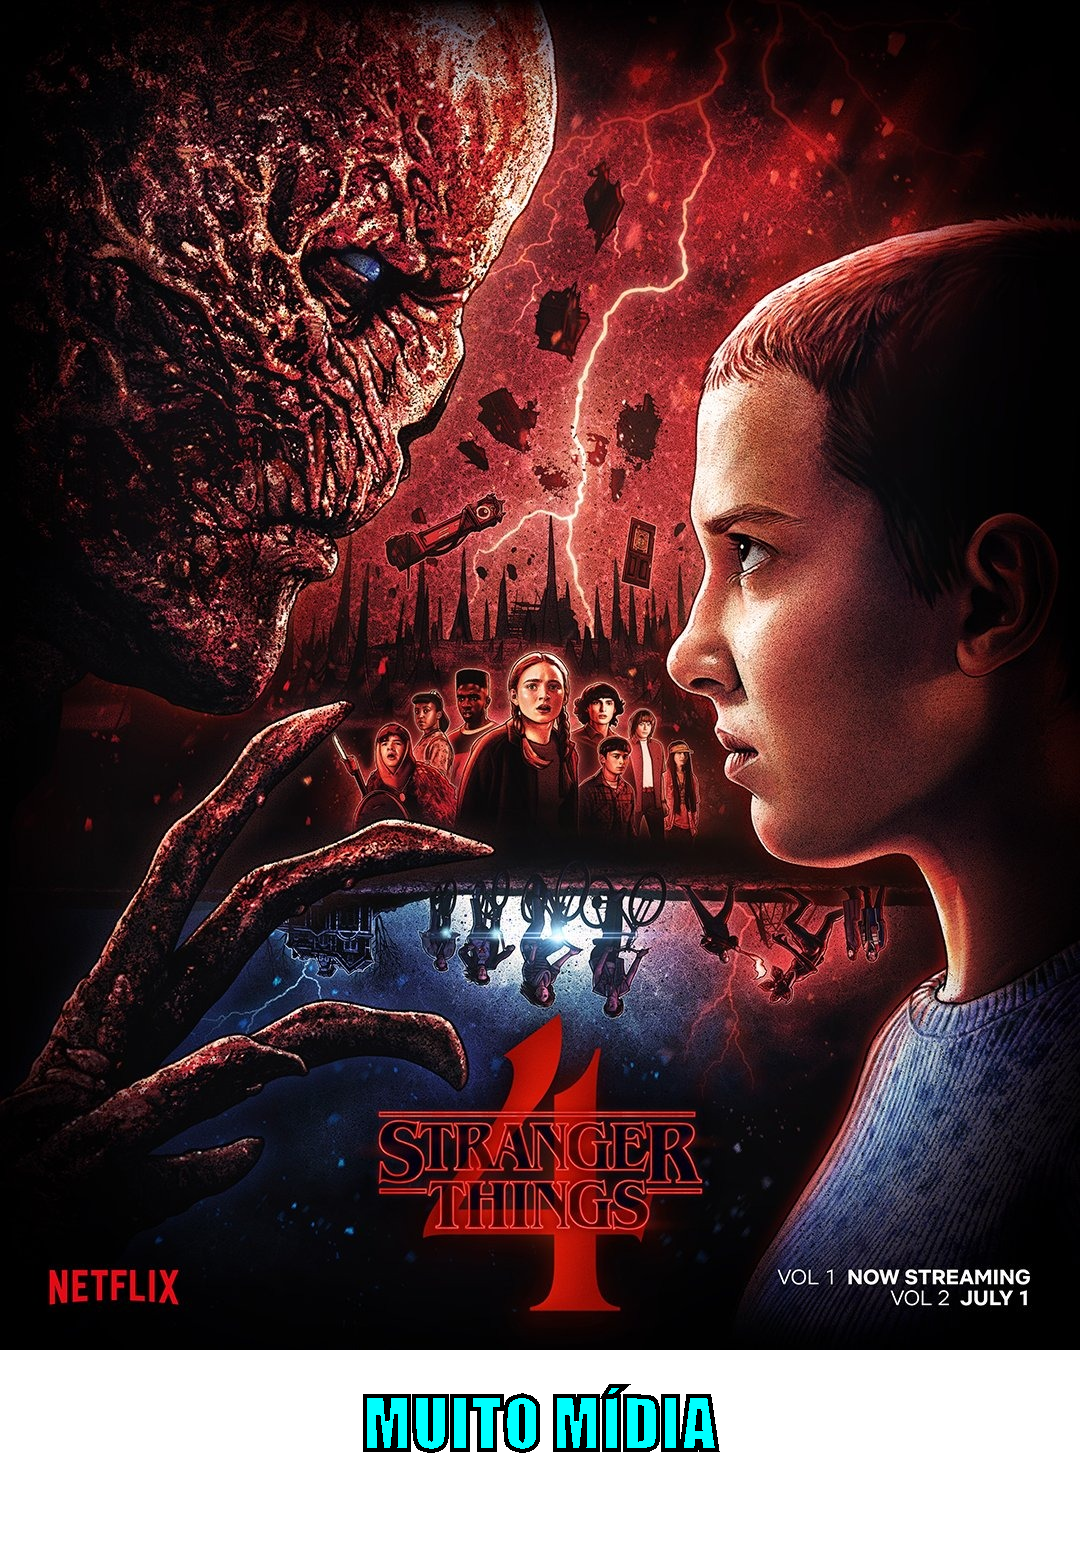
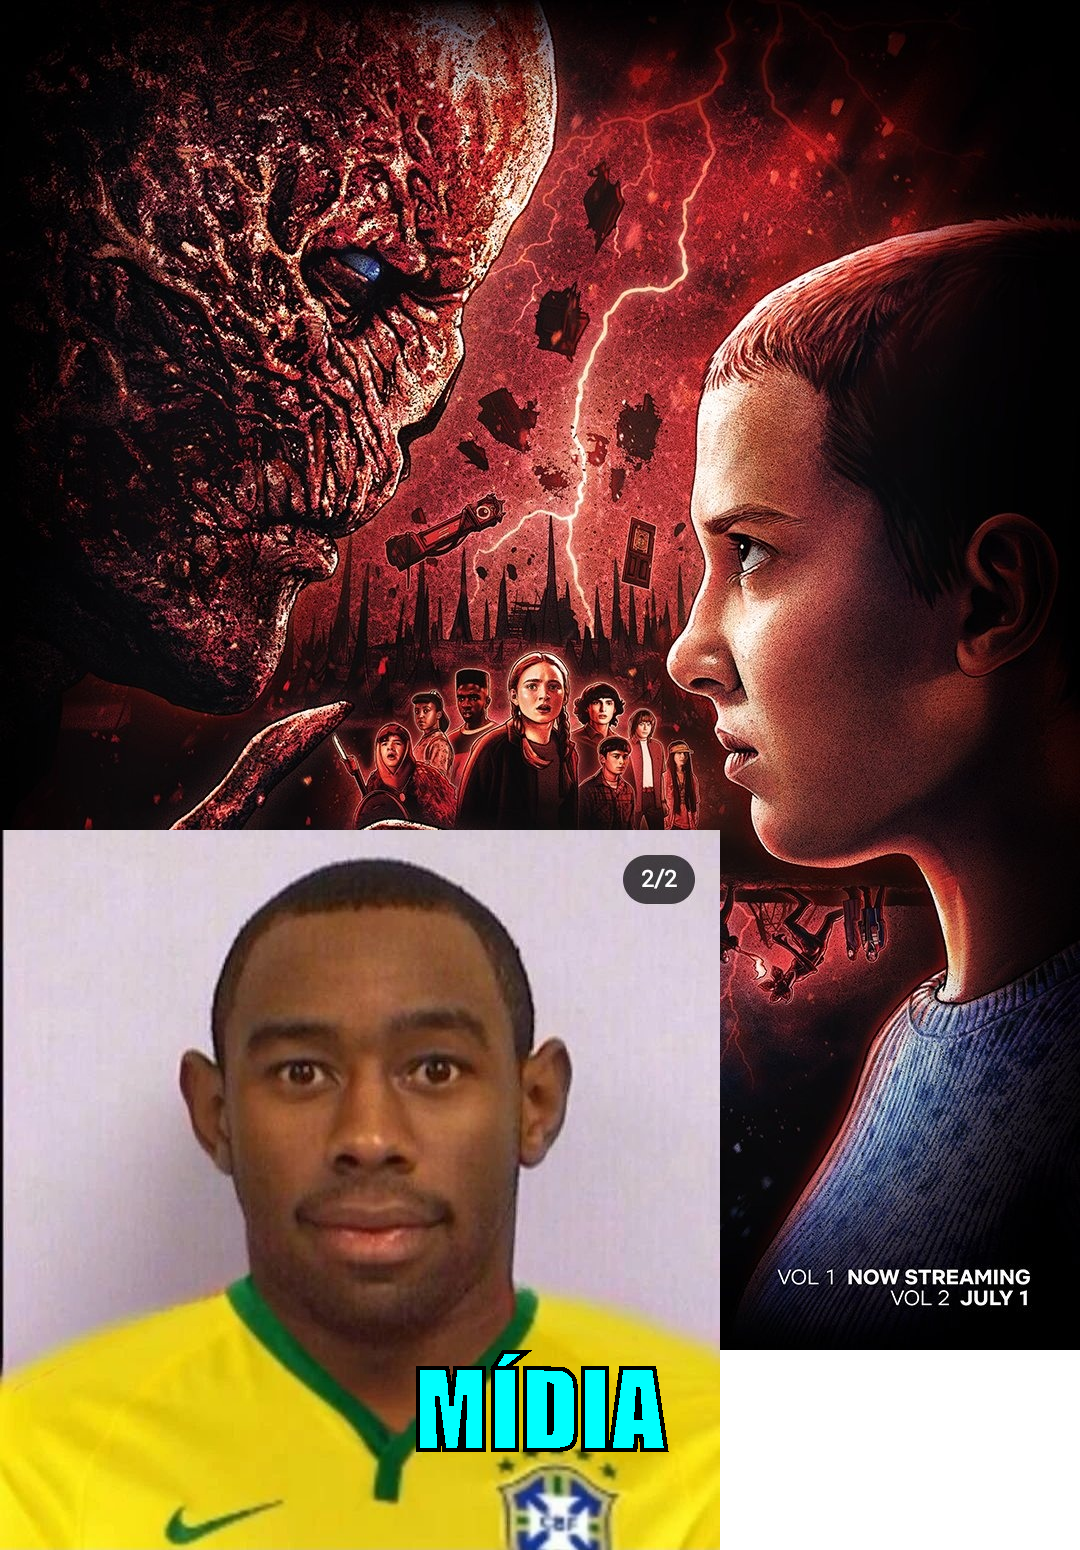
Desafio 05 - Colocar texto e sobrepor imagem de acordo com a classificacao do filme

diff --git a/src/application/GeradoraDeFigurinhas.java b/src/application/GeradoraDeFigurinhas.java
@@ -17,7 +17,7 @@ import javax.imageio.ImageIO;
 
 public class GeradoraDeFigurinhas {
 	
-	public void cria(InputStream inputStream, String nomeArquivo) throws Exception {
+	public void cria(InputStream inputStream, String nomeArquivo, String texto, InputStream inputStreamSobreposicao) throws Exception {
 
 		// leitura da imagem
 		
@@ -40,17 +40,21 @@ public class GeradoraDeFigurinhas {
 		Graphics2D graphics = (Graphics2D) novaImagem.getGraphics();
 		graphics.drawImage(imagemOriginal, 0, 0, null);
 		
+		BufferedImage imagemSobreposicao = ImageIO.read(inputStreamSobreposicao);
+		int posicaoImagemSobreposicaoY = novaAltura - imagemSobreposicao.getHeight();
+		graphics.drawImage(imagemSobreposicao, 0, posicaoImagemSobreposicaoY, null);
+		
 
 		// configurar a fonte
 		
-		var fonte = new Font("Impact", Font.BOLD, 65);
+		var fonte = new Font("Impact", Font.BOLD, 100);
 		graphics.setColor(Color.CYAN);
 		graphics.setFont(fonte);
 		
 
 		// escrever uma frase na nova imagem
 		
-		String texto = "MUITO MÍDIA";
+		
 		FontMetrics fontMetrics = graphics.getFontMetrics();
 		Rectangle2D retangulo = fontMetrics.getStringBounds(texto, graphics);
 		int larguraTexto = (int) retangulo.getWidth();

diff --git a/src/application/Program.java b/src/application/Program.java
@@ -1,6 +1,7 @@
 package application;
 
 import java.io.File;
+import java.io.FileInputStream;
 import java.io.InputStream;
 import java.net.URI;
 import java.net.URL;
@@ -49,10 +50,23 @@ public class Program {
 			
         	String urlImagem = filme.get("image");
         	String titulo = filme.get("title");
+        	double classificacao = Double.parseDouble(filme.get("imDbRating"));
+        	
+        	String textoFigurinha;
+        	InputStream imagemSobreposicao;
+        	if(classificacao >= 8.0) {
+        		textoFigurinha = "MÍDIA";
+        		imagemSobreposicao = new FileInputStream(new File("sobreposicao/positivo.jpg"));
+        	}
+        	else {
+        		textoFigurinha = "CANSADO";
+        		imagemSobreposicao = new FileInputStream(new File("sobreposicao/negativo.jpg"));
+        	}
+        	
         	InputStream inputStream = new URL(urlImagem).openStream();
         	String nomeArquivo = "figurinhas/" + titulo + ".png";
 
-        	geradora.cria(inputStream, nomeArquivo);
+        	geradora.cria(inputStream, nomeArquivo, textoFigurinha, imagemSobreposicao);
 
             System.out.println(titulo);
 
